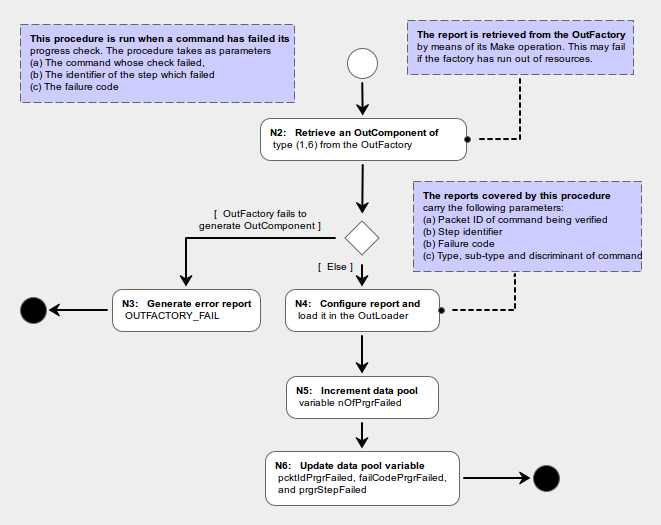
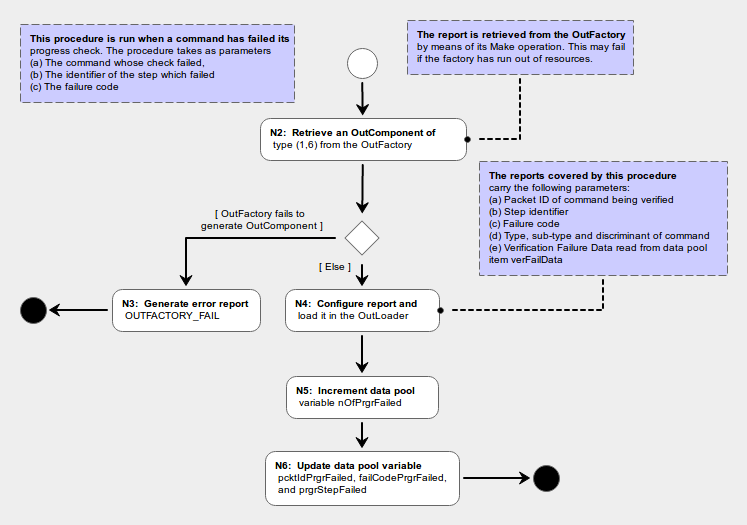
Added 'Verification Failure Data' mechanism

diff --git a/doc/pus/PusExtension.tex b/doc/pus/PusExtension.tex
@@ -900,11 +900,16 @@ The PUS defines the content of the service 1 reports in section 8.1 of AD-3. The
 
 \begin{fw_itemize}
 \item For all failure reports: the triplet [type,sub-type,discriminant] for the command being verified
+\item For all failure reports but (1,10) reports: the \textit{Verification Failure Data} as a single data item which contains command-specific information about the failure 
 \item For (1,10) reports only: the destination of the command which failed its routing check
 \item For (1,5) reports only: the identifier of the step which failed its progress check
 \end{fw_itemize}
 
-The failure codes which are generated by the framework extension are listed in appendix \ref{sec:reqVerFailCodes}. These failure codes cover the failure conditions for the commands defined by the frameork extension. Applications will normally have to add the failure codes for their own commands.
+The Verification Failure Data is stored in data pool item \texttt{verFailData}. Its purpose is to provide additional information about the nature of the failure being reported by the failure report. This data item has a fixed size but its syntactical type is command-specific. Its value is set by the entity which performs the verification check. If no failure data are defined for a given verification check, then \texttt{verFailData} must be set to zero. 
+
+To illustrate, consider the case of a command (3,5) which enables a housekeeping report. This command carries the Structure Identifier (SID) of the report to be enabled. The Start Action of this command checks the legality of the SID (see section TBD). If the SID is found to be illegal, the command is rejected with a (1,4) report and the illegal SID value is used as Verification Failure Data. The Start Action of the (1,4) command loads the illegal SID into data pool item \texttt{verFailData} and the Command Verification Failure Procedure which creates the (1,4) report takes the Verification Failure Data from \texttt{verFailData}.
+
+The failure codes which are generated by the framework extension are listed in appendix \ref{sec:reqVerFailCodes}. These failure codes cover the failure conditions for the commands defined by the framework extension. Applications should add the failure codes for their own commands. For each failure code, the associated verification failure data is defined.
 
 %---------------------------------------------------------------------------------
 \subsection{Service 1 Observables}\label{sec:serv1Obs}
@@ -1127,21 +1132,21 @@ The table in this section lists all the error reports which are generated by the
 
 %=============================================================================================
 \section{Request Verification Failure Codes}\label{sec:reqVerFailCodes}
-Request verification failure reports of service 1 carry a failure code. The table in this section lists all the failure codes supported by the PUS Extension of the CORDET Framework. The data associated to each failure report depends exclusively on the report sub-type and is specified by the close-out of adaptation point OCM-12 for service reports (see also section \ref{sec:serv1RepDef}).
+Request verification failure reports of service 1 carry a failure code. The table in this section lists all the failure codes supported by the PUS Extension of the CORDET Framework. Failure reports carry parameters. Some of these parameters are common to all failure reports but the Failure Verification Data is code-specific (see section \ref{sec:serv1RepDef}). This is defined in the rightmost column of the table.
 
-\begin{longtable}{|l|>{\raggedright\arraybackslash}p{8.0cm}|}
+\begin{longtable}{|l|p{5.5cm}|>{\raggedright\arraybackslash}p{3.5cm}|}
 \caption{Request Verification Failure Codes}\label{tab:reqVerFailCodes}\\
 \hline
 \rowcolor{light-gray}
-\textbf{Name} & \textbf{Description} \\
+\textbf{Name} & \textbf{Description} & \textbf{Ver. Failure Data} \\
 \hline\hline
 \endfirsthead
 \rowcolor{light-gray}
-\textbf{Name} & \textbf{Description} \\
+\textbf{Name} & \textbf{Description} & \textbf{Ver. Failure Data} \\
 \hline\hline
 \endhead
-\DTLforeach*{dbReqVerFailCodes}{\name=Name,\description=Description}
-{\DTLiffirstrow{}{\\\hline}\name & \description}\\\hline
+\DTLforeach*{dbReqVerFailCodes}{\name=Name,\description=Description, \verFailData=VerFailData}
+{\DTLiffirstrow{}{\\\hline}\name & \description & \verFailData }\\\hline
 \end{longtable}
 
 
